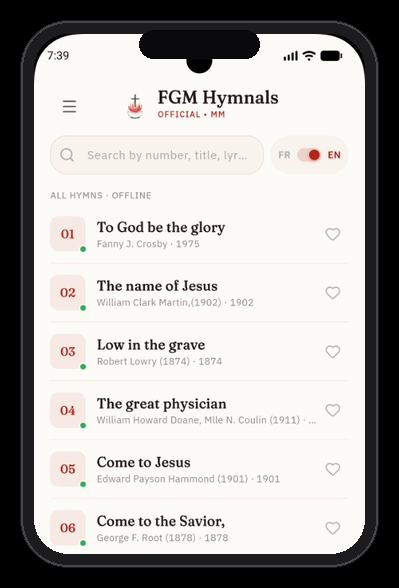
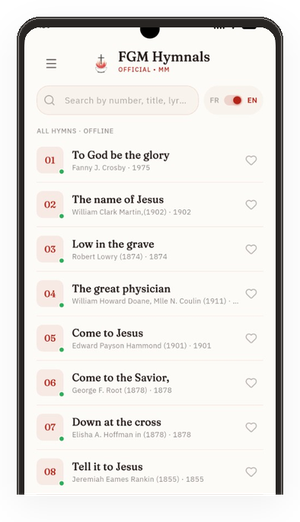
Polish OG share card and homepage mockup from clean app UI.
Crop the trial banner out of the screenshot, reframe it in a soft device shell, and bump social meta to og-cover-v3 for cache busting.

diff --git a/index.html b/index.html
@@ -13,7 +13,7 @@
   <meta property="og:title" content="FGM Hymnals • Official • MM" />
   <meta property="og:description"
     content="Official Full Gospel Mission hymnbook. Lyrics, audio, sheet music and projection — French & English." />
-  <meta property="og:image" content="https://fgm-hymnals-web.vercel.app/og-cover-v2.png" />
+  <meta property="og:image" content="https://fgm-hymnals-web.vercel.app/og-cover-v3.png" />
   <meta property="og:image:width" content="1200" />
   <meta property="og:image:height" content="630" />
   <meta property="og:image:alt" content="FGM Hymnals — Official hymnbook for phone and tablet" />
@@ -24,7 +24,7 @@
   <meta name="twitter:title" content="FGM Hymnals • Official • MM" />
   <meta name="twitter:description"
     content="Official Full Gospel Mission hymnbook. Lyrics, audio, sheet music and projection — French & English." />
-  <meta name="twitter:image" content="https://fgm-hymnals-web.vercel.app/og-cover-v2.png" />
+  <meta name="twitter:image" content="https://fgm-hymnals-web.vercel.app/og-cover-v3.png" />
   <link rel="icon" href="/logo.png" type="image/png" />
   <link rel="apple-touch-icon" href="/logo.png" />
   <link rel="preconnect" href="https://fonts.googleapis.com" />
@@ -54,11 +54,12 @@
     <div class="lite-stage">
       <div class="lite-copy">
         <h1>
-          <span class="brand-line" data-i18n="appName">FGM Hymnals • Official • MM</span>
+          <span class="brand-line" data-i18n="heroTitle">FGM Hymnals</span>
+          <span class="hero-meta" data-i18n="eyebrow">Official · MM</span>
         </h1>
         <p class="lede lite-lede" data-i18n="ledeLite">
-          The Full Gospel Mission hymnbook — lyrics, audio, sheet music and
-          projection, in French and English.
+          The official Full Gospel Mission hymnbook — lyrics, audio, sheet music and
+          projection.
         </p>
         <div class="cta-row lite-cta" data-geo-cta>
           <a class="play-badge" href="https://play.google.com/store/apps/details?id=com.apps_industry.fgm_lyrics"

diff --git a/full.html b/full.html
@@ -13,7 +13,7 @@
   <meta property="og:title" content="FGM Hymnals • Official • MM — Features" />
   <meta property="og:description"
     content="Official Full Gospel Mission hymnbook. Lyrics, audio, sheet music and projection — French & English." />
-  <meta property="og:image" content="https://fgm-hymnals-web.vercel.app/og-cover-v2.png" />
+  <meta property="og:image" content="https://fgm-hymnals-web.vercel.app/og-cover-v3.png" />
   <meta property="og:image:width" content="1200" />
   <meta property="og:image:height" content="630" />
   <meta property="og:image:alt" content="FGM Hymnals — Official hymnbook for phone and tablet" />
@@ -24,7 +24,7 @@
   <meta name="twitter:title" content="FGM Hymnals • Official • MM — Features" />
   <meta name="twitter:description"
     content="Official Full Gospel Mission hymnbook. Lyrics, audio, sheet music and projection — French & English." />
-  <meta name="twitter:image" content="https://fgm-hymnals-web.vercel.app/og-cover-v2.png" />
+  <meta name="twitter:image" content="https://fgm-hymnals-web.vercel.app/og-cover-v3.png" />
   <link rel="icon" href="/logo.png" type="image/png" />
   <link rel="apple-touch-icon" href="/logo.png" />
   <link rel="preconnect" href="https://fonts.googleapis.com" />
@@ -63,7 +63,8 @@
     <section class="hero">
       <div class="hero-copy">
         <h1>
-          <span class="brand-line" data-i18n="appName">FGM Hymnals • Official • MM</span>
+          <span class="brand-line" data-i18n="heroTitle">FGM Hymnals</span>
+          <span class="hero-meta" data-i18n="eyebrow">Official · MM</span>
         </h1>
         <p class="lede" data-i18n="lede">
           The Full Gospel Mission hymnbook on your phone — lyrics, audio,

diff --git a/privacy.html b/privacy.html
@@ -12,7 +12,7 @@
   <meta property="og:url" content="https://fgm-hymnals-web.vercel.app/privacy" />
   <meta property="og:title" content="Privacy Policy — FGM Hymnals • Official • MM" />
   <meta property="og:description" content="How FGM Hymnals • Official • MM collects, uses, and protects your data." />
-  <meta property="og:image" content="https://fgm-hymnals-web.vercel.app/og-cover-v2.png" />
+  <meta property="og:image" content="https://fgm-hymnals-web.vercel.app/og-cover-v3.png" />
   <meta property="og:image:width" content="1200" />
   <meta property="og:image:height" content="630" />
   <meta property="og:image:alt" content="Privacy Policy — FGM Hymnals" />
@@ -22,7 +22,7 @@
   <meta name="twitter:card" content="summary_large_image" />
   <meta name="twitter:title" content="Privacy Policy — FGM Hymnals • Official • MM" />
   <meta name="twitter:description" content="How FGM Hymnals • Official • MM collects, uses, and protects your data." />
-  <meta name="twitter:image" content="https://fgm-hymnals-web.vercel.app/og-cover-v2.png" />
+  <meta name="twitter:image" content="https://fgm-hymnals-web.vercel.app/og-cover-v3.png" />
   <link rel="icon" href="/logo.png" type="image/png" />
   <link rel="apple-touch-icon" href="/logo.png" />
   <link rel="preconnect" href="https://fonts.googleapis.com" />

diff --git a/public/privacy.html b/public/privacy.html
@@ -12,7 +12,7 @@
   <meta property="og:url" content="https://fgm-hymnals-web.vercel.app/privacy" />
   <meta property="og:title" content="Privacy Policy — FGM Hymnals • Official • MM" />
   <meta property="og:description" content="How FGM Hymnals • Official • MM collects, uses, and protects your data." />
-  <meta property="og:image" content="https://fgm-hymnals-web.vercel.app/og-cover-v2.png" />
+  <meta property="og:image" content="https://fgm-hymnals-web.vercel.app/og-cover-v3.png" />
   <meta property="og:image:width" content="1200" />
   <meta property="og:image:height" content="630" />
   <meta property="og:image:alt" content="Privacy Policy — FGM Hymnals" />
@@ -22,7 +22,7 @@
   <meta name="twitter:card" content="summary_large_image" />
   <meta name="twitter:title" content="Privacy Policy — FGM Hymnals • Official • MM" />
   <meta name="twitter:description" content="How FGM Hymnals • Official • MM collects, uses, and protects your data." />
-  <meta name="twitter:image" content="https://fgm-hymnals-web.vercel.app/og-cover-v2.png" />
+  <meta name="twitter:image" content="https://fgm-hymnals-web.vercel.app/og-cover-v3.png" />
   <link rel="icon" href="/logo.png" type="image/png" />
   <link rel="apple-touch-icon" href="/logo.png" />
   <link rel="preconnect" href="https://fonts.googleapis.com" />

diff --git a/download.html b/download.html
@@ -11,7 +11,7 @@
   <meta property="og:url" content="https://fgm-hymnals-web.vercel.app/download" />
   <meta property="og:title" content="Download — FGM Hymnals • Official • MM" />
   <meta property="og:description" content="Install the Mobile Money edition APK for Android." />
-  <meta property="og:image" content="https://fgm-hymnals-web.vercel.app/og-cover-v2.png" />
+  <meta property="og:image" content="https://fgm-hymnals-web.vercel.app/og-cover-v3.png" />
   <meta property="og:image:width" content="1200" />
   <meta property="og:image:height" content="630" />
   <meta property="og:image:alt" content="Download FGM Hymnals for Android" />
@@ -21,7 +21,7 @@
   <meta name="twitter:card" content="summary_large_image" />
   <meta name="twitter:title" content="Download — FGM Hymnals • Official • MM" />
   <meta name="twitter:description" content="Install the Mobile Money edition APK for Android." />
-  <meta name="twitter:image" content="https://fgm-hymnals-web.vercel.app/og-cover-v2.png" />
+  <meta name="twitter:image" content="https://fgm-hymnals-web.vercel.app/og-cover-v3.png" />
   <link rel="icon" href="/logo.png" type="image/png" />
   <link rel="apple-touch-icon" href="/logo.png" />
   <link rel="preconnect" href="https://fonts.googleapis.com" />

diff --git a/public/download.html b/public/download.html
@@ -11,7 +11,7 @@
   <meta property="og:url" content="https://fgm-hymnals-web.vercel.app/download" />
   <meta property="og:title" content="Download — FGM Hymnals • Official • MM" />
   <meta property="og:description" content="Install the Mobile Money edition APK for Android." />
-  <meta property="og:image" content="https://fgm-hymnals-web.vercel.app/og-cover-v2.png" />
+  <meta property="og:image" content="https://fgm-hymnals-web.vercel.app/og-cover-v3.png" />
   <meta property="og:image:width" content="1200" />
   <meta property="og:image:height" content="630" />
   <meta property="og:image:alt" content="Download FGM Hymnals for Android" />
@@ -21,7 +21,7 @@
   <meta name="twitter:card" content="summary_large_image" />
   <meta name="twitter:title" content="Download — FGM Hymnals • Official • MM" />
   <meta name="twitter:description" content="Install the Mobile Money edition APK for Android." />
-  <meta name="twitter:image" content="https://fgm-hymnals-web.vercel.app/og-cover-v2.png" />
+  <meta name="twitter:image" content="https://fgm-hymnals-web.vercel.app/og-cover-v3.png" />
   <link rel="icon" href="/logo.png" type="image/png" />
   <link rel="apple-touch-icon" href="/logo.png" />
   <link rel="preconnect" href="https://fonts.googleapis.com" />

diff --git a/public/full.html b/public/full.html
@@ -13,7 +13,7 @@
   <meta property="og:title" content="FGM Hymnals • Official • MM — Features" />
   <meta property="og:description"
     content="Official Full Gospel Mission hymnbook. Lyrics, audio, sheet music and projection — French & English." />
-  <meta property="og:image" content="https://fgm-hymnals-web.vercel.app/og-cover-v2.png" />
+  <meta property="og:image" content="https://fgm-hymnals-web.vercel.app/og-cover-v3.png" />
   <meta property="og:image:width" content="1200" />
   <meta property="og:image:height" content="630" />
   <meta property="og:image:alt" content="FGM Hymnals — Official hymnbook for phone and tablet" />
@@ -24,7 +24,7 @@
   <meta name="twitter:title" content="FGM Hymnals • Official • MM — Features" />
   <meta name="twitter:description"
     content="Official Full Gospel Mission hymnbook. Lyrics, audio, sheet music and projection — French & English." />
-  <meta name="twitter:image" content="https://fgm-hymnals-web.vercel.app/og-cover-v2.png" />
+  <meta name="twitter:image" content="https://fgm-hymnals-web.vercel.app/og-cover-v3.png" />
   <link rel="icon" href="/logo.png" type="image/png" />
   <link rel="apple-touch-icon" href="/logo.png" />
   <link rel="preconnect" href="https://fonts.googleapis.com" />

diff --git a/public/index.html b/public/index.html
@@ -13,7 +13,7 @@
   <meta property="og:title" content="FGM Hymnals • Official • MM" />
   <meta property="og:description"
     content="Official Full Gospel Mission hymnbook. Lyrics, audio, sheet music and projection — French & English." />
-  <meta property="og:image" content="https://fgm-hymnals-web.vercel.app/og-cover-v2.png" />
+  <meta property="og:image" content="https://fgm-hymnals-web.vercel.app/og-cover-v3.png" />
   <meta property="og:image:width" content="1200" />
   <meta property="og:image:height" content="630" />
   <meta property="og:image:alt" content="FGM Hymnals — Official hymnbook for phone and tablet" />
@@ -24,7 +24,7 @@
   <meta name="twitter:title" content="FGM Hymnals • Official • MM" />
   <meta name="twitter:description"
     content="Official Full Gospel Mission hymnbook. Lyrics, audio, sheet music and projection — French & English." />
-  <meta name="twitter:image" content="https://fgm-hymnals-web.vercel.app/og-cover-v2.png" />
+  <meta name="twitter:image" content="https://fgm-hymnals-web.vercel.app/og-cover-v3.png" />
   <link rel="icon" href="/logo.png" type="image/png" />
   <link rel="apple-touch-icon" href="/logo.png" />
   <link rel="preconnect" href="https://fonts.googleapis.com" />
